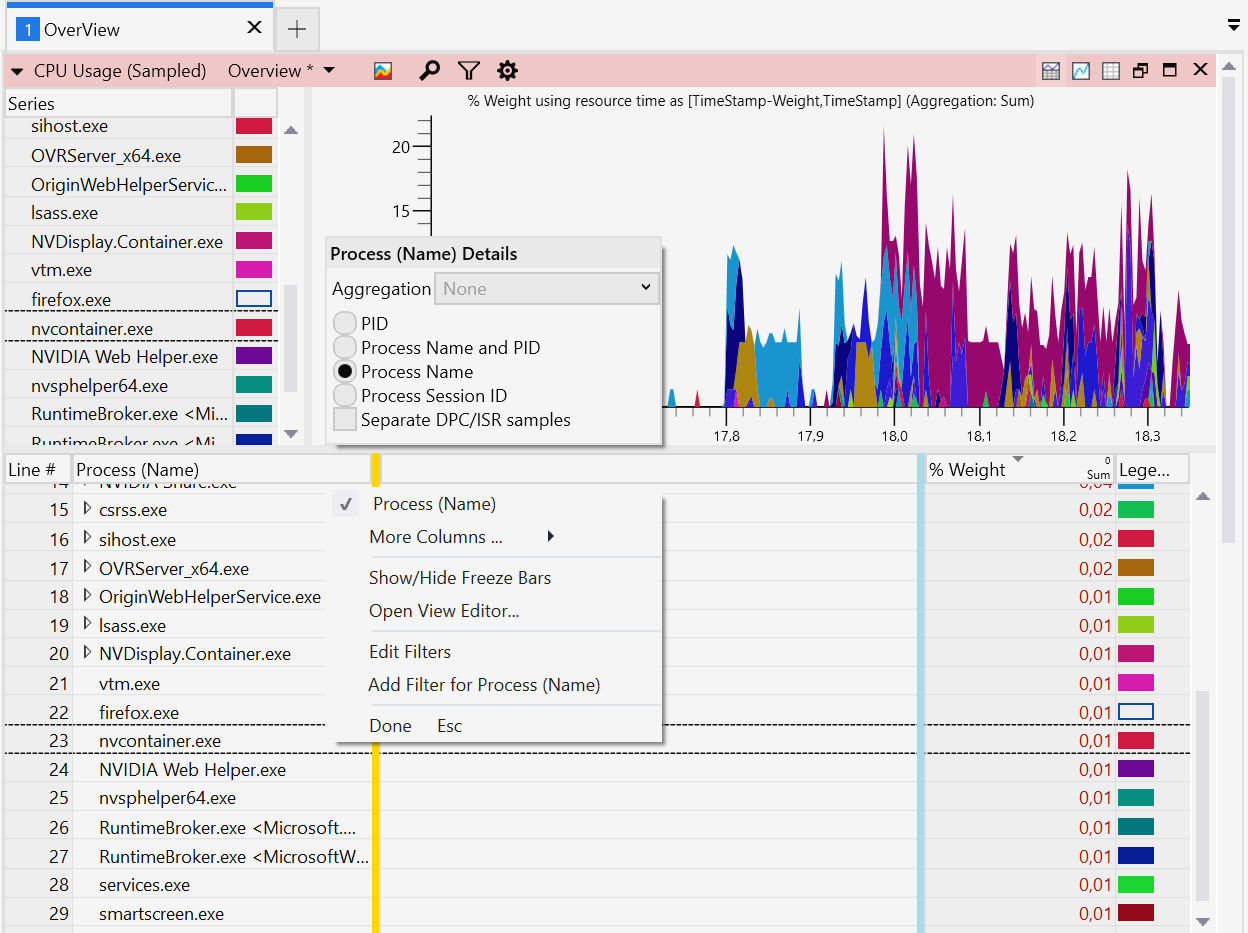
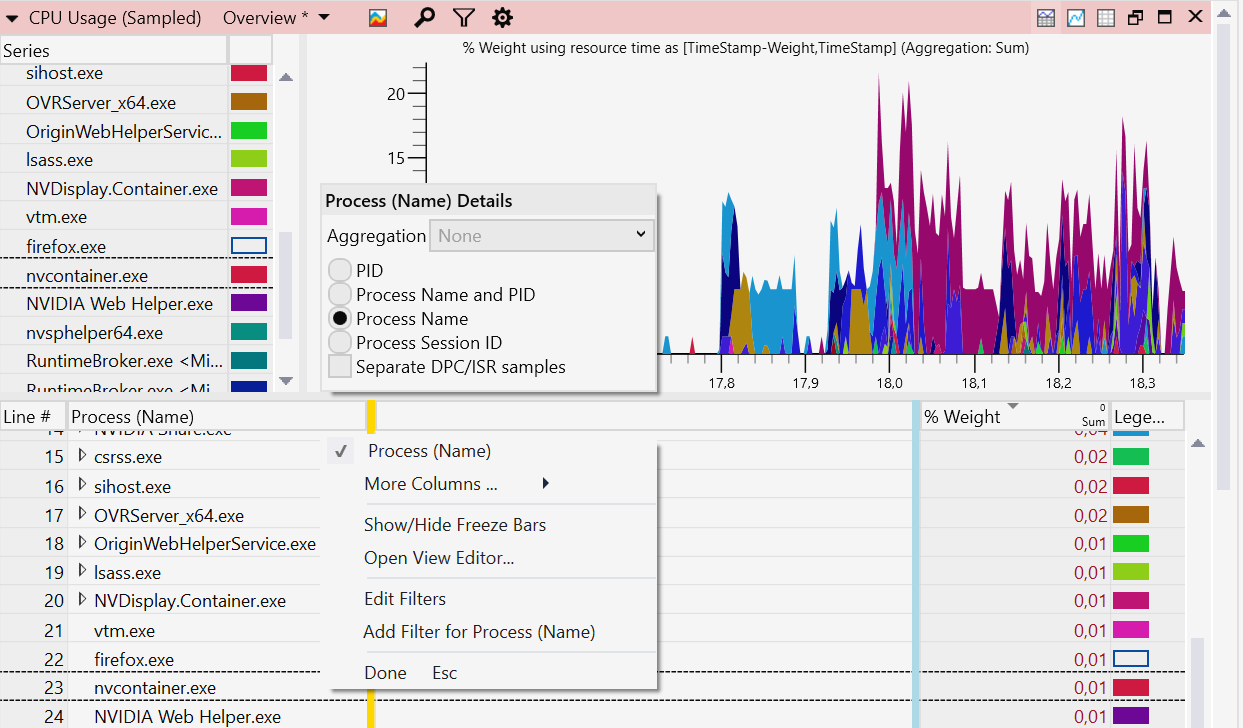
Shortened chapter and removed not necessary screenhots. Now the chapter should be a better fit.

Changed region(s): [[0.0, 0.0, 1.0, 1.0], [0.7337, 0.9066, 0.7643, 0.967]]

diff --git a/chapters/8-Overview-Of-Performance-Analysis-Tools/8-6 Windows ETW.md b/chapters/8-Overview-Of-Performance-Analysis-Tools/8-6 Windows ETW.md
@@ -25,9 +25,8 @@ To enable system wide profiling you must be administrator and have the privilege
 
 Recording ETW data is possible without any extra download since Windows 10 with Wpr.exe. The \underline{W}indows \underline{P}erformance \underline{R}ecorder tool supports a set of built-in recording profiles which are ok for common performance issues. You can tailor your recording needs by authoring a custom performance recorder profile xml file with the `.wprp` extension.
 
-[TODO @Alois]: Why do we need Windows Performance Toolkit? What's inside it?
-[TODO @Alois]: What is the second step of the installation process?
-You can download the Windows Performance Toolkit from the Windows SDK[^1] or ADK[^2] download page. The installation is a two step process. First you download a small installer which will give you the options to download just the parts, in this case the Windows Performance Toolkit, you need. You are allowed to redistribute WPT e.g. as part of your own application.
+If you are running Windows 10 or you want not only record but also view the recorded ETW data you need to install the Windows Performance Toolkit.
+You can download the Windows Performance Toolkit from the Windows SDK[^1] or ADK[^2] download page. The installation is a two step process. First you download a small installer which you start. There you can select in the SDK Installer UI just the parts of the huge Windows SDK you need. In our case we just enable the checkbox of the Windows Performance Toolkit and install it. You are allowed to redistribute WPT e.g. as part of your own application.
 
 ### ETW Recording Tools {.unlisted .unnumbered}
 
@@ -41,7 +40,7 @@ You can download the Windows Performance Toolkit from the Windows SDK[^1] or ADK
   
 ### ETW Viewing/Analysis Tools {.unlisted .unnumbered}
 
-- Windows Performance Analyzer (WPA): the most powerful UI for viewing ETW data. ~~There are not many system wide analysis tools out there. One comparable tool is TraceCompass from the Eclipse foundation.~~ WPA can visualize and overlay Disk, CPU, GPU, Network, Memory, Process and many more data sources to get a holistic understanding how your system behaves and what it was doing. Although the UI is very powerful it may also be quite complex for beginners. ~~You need to know how your application interacts with your language runtime (e.g. .NET Common Language Runtime, C-Runtime, JavaScript, ...), the operating system and other processes which constitute your system. Microsoft has invested also in Linux observability. As a result of this~~ WPA supports plugins to process any data, not just ETW traces. Today you can view Linux/Android[^8] profiling data with WPA generated from tools like Linux perf, LTTNG, Perfetto and the following log file formats: dmesg, Cloud-Init, WaLinuxAgent, AndoidLogcat.
+- Windows Performance Analyzer (WPA): the most powerful UI for viewing ETW data.  WPA can visualize and overlay Disk, CPU, GPU, Network, Memory, Process and many more data sources to get a holistic understanding how your system behaves and what it was doing. Although the UI is very powerful it may also be quite complex for beginners.  WPA supports plugins to process any data, not just ETW traces. Today you can view Linux/Android[^8] profiling data with WPA generated from tools like Linux perf, LTTNG, Perfetto and the following log file formats: dmesg, Cloud-Init, WaLinuxAgent, AndoidLogcat.
 
 - ETWAnalyzer[^5]: reads ETW data and generates aggregate summary Json files which can be queried, filtered and sorted at command line or exported to a CSV file.
 
@@ -67,60 +66,90 @@ Next, we will take a look at the example of using ETWController to capture ETW t
 
 #### Capture traces {.unlisted .unnumbered}
 
-![ETWController UI screenshot.](../../img/perf-tools/ETWController.png){#fig:ETWControllerUI width=80%}
-
 - Start ETWController
 - Select the CSwitch profile to track thread wait times along with the other default recording settings. Keep the check boxes *"Record mouse clicks"* and *"Take cyclic screenshots"* enabled to be later able to navigate to the slow spots with the help of the screen shots. See @fig:ETWControllerUI.
  - Press *"Start Recording"*
  - Download some executable from the internet, unpack it and double click the executable to start it. 
  - After that you can stop profiling by pressing the *"Stop Recording"* button. 
 
+![ETWController UI screenshot.](../../img/perf-tools/ETWController.png){#fig:ETWControllerUI width=80%}
+
 Stopping profiling the first time takes a bit longer because for all managed code synthetic pdbs are generated which is a one time operation. After profiling has reached the Stopped state you can press the *"Open in WPA"* button to load the ETL file into the Windows Performance Analyzer with an ETWController supplied profile. The CSwitch profile generates a large amount of data which is stored in a 4 GB ring buffer which allows you to record 1-2 minutes before the oldest events are overwritten. Sometimes it is a bit of an art to stop profiling at the right time point. If you have sporadic issues you can keep recording enabled for hours and stop it when an event like a log entry in a file shows up, which is checked by a polling script, to stop profiling when the issue has occurred.
+
+![Screenshot captured with ETWController viewed in Browser.](../../img/perf-tools/ETWController_Screenshot.png){#fig:ETWControllerScreenshot width=80% }
 
 Windows supports Event Log and Performance Counter triggers which allow one to start a script when a performance counter reaches a threshold value or a specific event is written to an event log. If you need more sophisticated stop triggers you should take a look at PerfView which allows one to define a Performance Counter threshold which must be reached and stay there for x seconds before profiling is stopped. This way random spikes are no longer triggering false positives. 
 
 #### Analysis in WPA {.unlisted .unnumbered}
 
-[TODO:] Current section is already 6+ pages, above the initially planned budget.
-The case study with Windows defender blocking a start of a process seems good.
-I would rather just show a single image that shows the issue being analyzed since each screenshot takes almost an entire A4 page, or we can glue parts of two screenshots to make it more compact. What I would like to see on the screenshot:
-1. show explorer is blocked
-2. show MsMpEng.exe is active
-3. show screenshot event on the timeline
-4. explain the scheduler transitions
-Please explain as simple as possible, otherwise it will be a hard time for someone who is new to ETW. Good idea is to put markers on the image (like 1,2,3) and then refer to these markers from the text.
-Right now, there is a lot of data on the screenshots and it's hard to tell if everything is relevant or not.
-The goal of this chapter is to introduce the MAIN usage of ETW traces (e.g. observe SW dynamics), then briefly describe other things it can do.
-
-After stopping the recording, open the recorded trace in WPA. The screenshot of WPA trace for our case study is shown on figure @fig:DefenderOverhead.
-
 ![WPA overview of the trace showing a process start blocked by defender activity.](../../img/perf-tools/WPA_SlowProcessStart_DefenderOverhead.png){#fig:DefenderOverhead width=100% }
 
 WPA supports custom profiles to configure the graph and table data for visualizing CPU, disk, files, etc. in the way you like best. Originally it was developed for device driver developers which is reflected by the built-in profiles which do not focus on application development. ETWController brings its own profile (*Overview.wpaprofile*) which you can set as default profile under *Profiles - Save Startup Profile* to always use the performance overview profile.
 
-On the screenshot, the view is divided into two parts: *CPU Usage (Sampled)* and *CPU Usage (Precise)*, let's understand the difference. The upper half shows sampled graph which is useful to see where CPU is spent, similar to hotspots view in other profiling tools. The lower half shows precise graph, which takes into account time intervals during a process was not running (wall time). Such data is generated by the Windows Thread Scheduler handling context switch events which provides data, e.g. how long and on which CPU a thread was running (CPU Usage), how long it was blocked in a kernel call (Wait), in which priority and how long the thread had been waiting for a CPU to become free (Ready Time), etc.
+On the screenshot @fig:DefenderOverhead, the view is divided into two parts: *CPU Usage (Sampled)* and *CPU Usage (Precise)*, let's understand the difference. The upper half shows sampled graph which is useful to see where CPU is spent, similar to hotspots view in other profiling tools. The lower half shows precise graph, which takes into account time intervals during a process was not running (wall time). Such data is generated by the Windows Thread Scheduler handling context switch events which provides data, e.g. how long and on which CPU a thread was running (CPU Usage), how long it was blocked in a kernel call (Wait), in which priority and how long the thread had been waiting for a CPU to become free (Ready Time), etc.
 
 The methods in the *CPU Usage (Precise)* graph with highest CPU are most likely not the actual CPU consumers. A Context switch event is (simplified!) generated when a thread hits a blocking OS call like `WaitForSingleObject` or `WaitForMultipleObjects`. If a thread is e.g. in a busy for loop spinning billions of iterations but later taking a lock all CPU will be attributed to the lock call which calls into a blocking OS call. Only the blocking operation generates a Context Switch event and not high CPU. Although the CPU consumption of a thread is measured exactly it will not help you to locate busy CPU consumers. To find CPU bottlenecks you need to look into CPU sampling data. If you want to know why your thread was not running then you need Context Switch traces. What most users expect would be a combined view which show wait times and CPU hotspots in one tool, but this is so far not supported in WPA. ETWAnalyzer merges the data, but it is a console only application with no UI.
 
-[TODO:] highlight EventNumber 63 on the screenshot.
-
 We can examine the screenshots taken by ETWController to find where slowness was observed. An example is shown in figure @fig:ETWControllerScreenshot. When the profiling data is saved (the file named xx.etl) another folder named *xx.etl.Screenshots* is created. This contains all screenshots and a *Report.html* file which you can view in the browser. Every recorded keyboard/mouse interaction gets a screenshot of the form Screenshot_EventNumber e.g. Screenhot_63.jpg. This is the screenshot file of the double click event where the process start was delayed. The mouse pointer position is marked as a green square, except if a click event did occur, then it is red. This makes it easy to spot when and where a mouse click was performed.
-
-[TODO:] Cut the image fig:ETWControllerScreenshot.
-
-![Screenshot captured with ETWController viewed in Browser.](../../img/perf-tools/ETWController_Screenshot.png){#fig:ETWControllerScreenshot width=80% }
 
 The slow click event number 63 we can locate in the profiling data in the WPA Overview view. Then you can zoom in to the interesting time region of a potentially longer recording. The event number is part of the *Generic Events HookTracer Events(Slow, Mouse, Keyboard)* WPA view which visualizes all keyboard, mouse and timer based screenshots. 
 
-[TODO @Alois]: the text below doesn't correlate with the image.
 
-See figure @fig:WpaSlowProcessStartOverview. When you double click in explorer to start an executable you would first check if a delay in explorer.exe is happening. Since we are dealing with delays it makes sense to look at the *CPU Usage (Precise) Waits* Graph. There you will find after the first column after process *New Thread Stack (Stack Tag)* which shows the summary of all threads and what they were doing. If we look deeper we find *Antivirus - Windows Defender* with a delay of 1.068s which can be visualized as bar chart to nicely display correlations across processes.
+See figure @fig:DefenderOverhead. When you double click in explorer to start an executable you would first check if a delay in explorer.exe is happening. Since we are dealing with delays it makes sense to look at the *CPU Usage (Precise) Waits* Graph. There you will find after the first column after process *New Thread Stack (Stack Tag)* which shows the summary of all threads and what they were doing. If we look deeper we find *Antivirus - Windows Defender* with a delay of 1.068s which can be visualized as bar chart to nicely display correlations across processes.
 
-![WPA slow process start overview.](../../img/perf-tools/WPA_SlowProcessStartOverview.png){#fig:WpaSlowProcessStartOverview width=100% }
+You might be familiar with stack traces, but not necessarily stack tags. When you read a call stack you try to understand what an application was doing and mentally map the call stack to the applications intent. Lets suppose a deep stack trace which consumes a lot of CPU 
 
-You might be familiar with stack traces, but not necessarily stack tags. When you read a call stack you try to understand what an application was doing and mentally map the call stack to the applications intent. That is exactly what stack tags are for without the need to unfold the call stack to find deep inside the one key frame that is telling you what the application was doing. See[^9] for a more detailed explanation how you can define your own stacktag definitions. The stacktags from the ETWController profile originate from ETWAnalyzer[^10] which is the result of hundreds of performance issues investigated over a decade in Windows, .NET, .NET Core, GPU and Antivirus device drivers. 
+----------------------------------------------------------------------------------------------------
+Stack Tag                   Stack                                           CPU ms             Wait ms
+---------                   ----------------------------------------        ---------------    ----------
+Windows Defender            YourApp.exe!main()                              5000               10000
 
-[TODO @Alois]: I think it's still unclear what a "stacktag" is. Is it just a Microsoft internal way of marking common call stacks? Do stacktags show a process call stack grouped by category (Waits, COM, etc.)? I think we either should explain it in a simple way or just avoid it altogether. :)
+                            YourApp.exe!logic1()                            3000               5000  
+
+                             YourApp.exe!logic2()                            2000               3000
+
+                             YourApp.exe!logic3()                            2000               3000
+
+                             YourApp.exe!logic4()                            2000               3000
+
+                              YourApp.exe!logic5()                            1000               2500
+
+                                YourApp.exe!logic6()                            500                2300
+
+                                YourApp.exe!readfile()                          500                2300
+
+                                  KernelBase.dll!CreateFileInternal               396              2200
+
+                                  apphelp.dll!InsHook_NtCreateFile                396              2200
+
+                                  ntdll.dll!NtCreateFile                          396              2200
+
+                                  ...                                             396              2200
+
+                                  FLTMGR.SYS!FltpCreate                           396              2200
+
+                                  FLTMGR.SYS!FltpPassThroughInternal              396              2200
+
+                                  FLTMGR.SYS!FltpPerformPreCallbacksWorker        396              2200
+
+                                  WdFilter.sys!<PDB not found>                    396              2200
+
+                                  ...                                             ...               ...
+
+----------------------------------------------------------------------------------------------------
+Table: Stacktag Example. {#tbl:stacktag_example}
+
+At a high level you know that logic1 is running which many layers below tries to read from a file where the file open operation (CreateFile) is delayed for 2500ms. If only user mode stacks are present you must assume that the file system was just slow. But with ETW see also what the kernel is doing. In this case CreateFile is intercepted by Windows Defender (WdFilter.sys = Windows Defender Filter Driver) for which Microsoft does not deliver symbol information. We know that our call was delayed by Antivirus. To check where else the Antivirus Scanner is interfering with your application you need to unfold all stacks where WdFilter.sys is poping up, which is a time consuming operation. One would like to group the stacks which are interecepted by Defender into an extra bucket. That is what stack tags are meant for: To give a key method of a stack trace a descriptive name. Stacktags are method and module pattern expressions in an external XML file (in WPA: Trace -Trace Properties-Stack Tags Definitions) which are defined like this:
+```
+  <Tag Name="Windows Defender" Priority="1">
+    <Entrypoint Module="WdFilter.sys" Method="*"/>
+    <Entrypoint Module="mssecflt.sys" Method="*"/>
+  </Tag>
+```
+Stack tag matching works from bottom to top where the first matching stack tag definition wins. That behavior has the nice property that you can sum up all stacktags to get the total CPU/Wait overhead for this stacktag. Since ETW stack traces combine user and kernel stacks it is easy to estimate AV overhead by defining a stacktag for all AV device drivers which are showing up in your application stack traces in CPU Sampling and Context Switch traces because the AV drivers are intercepting your user mode calls. 
+
+The Defender stacktag matches two Defender device drivers which intercept (mainly) CreateProcess and File related operations. If e.g. the CreateFile call is delayed by one of these drivers we can directly see how much Wait and CPU by this driver was introduced by looking at the aggregated stack tag metrics. If the tag is absent we know that no Defender was running at that point in time. 
+See[^9] for a more detailed explanation how you can define your own stacktag definitions. The stacktags from the ETWController profile originate from ETWAnalyzer[^10] which is the result of hundreds of performance issues investigated over a decade in Windows, .NET, .NET Core, GPU and Antivirus device drivers. 
 
 [^1]: Windows SDK Downloads [https://developer.microsoft.com/en-us/windows/downloads/sdk-archive/](https://developer.microsoft.com/en-us/windows/downloads/sdk-archive/)
 [^2]: Windows ADK Downloads [https://learn.microsoft.com/en-us/windows-hardware/get-started/adk-install#other-adk-downloads](https://learn.microsoft.com/en-us/windows-hardware/get-started/adk-install#other-adk-downloads)
@@ -132,101 +161,3 @@ You might be familiar with stack traces, but not necessarily stack tags. When yo
 [^8]: Microsoft Performance Tools Linux / Android [https://github.com/microsoft/Microsoft-Performance-Tools-Linux-Android](https://github.com/microsoft/Microsoft-Performance-Tools-Linux-Android)
 [^9]: Stacktags [https://learn.microsoft.com/en-us/windows-hardware/test/wpt/stack-tags](https://learn.microsoft.com/en-us/windows-hardware/test/wpt/stack-tags)
 [^10]: ETWAnalyzer Stacktags [https://github.com/Siemens-Healthineers/ETWAnalyzer/blob/main/ETWAnalyzer/Configuration/default.stacktags](https://github.com/Siemens-Healthineers/ETWAnalyzer/blob/main/ETWAnalyzer/Configuration/default.stacktags)
-
-## TO REMOVE {.unlisted .unnumbered}
-
-#### Debug symbols {.unlisted .unnumbered}
-
-All stacktag definitions which refer to a method need symbols, otherwise the stack trace to stack tag mapping will not work and you will only see stack tags which refer to modules but not specific methods. To load symbols you need to add the Microsoft symbol server and potentially your own symbol server in the *Trace - Configure Symbol Paths* dialog. See @fig:WpaSymbolLoadDialog. After that you can start loading symbols by checking the *Trace - Load Symbols* menu entry. WPA has a reputation of being slow because most users leave the remote symbol servers enabled after having downloaded the matching symbols once. 
-
-*Pro Tip: The next time you open a new or the same ETL file be sure to uncheck all remote symbol servers, before starting to load symbols. Symbol loading will then need < 1 minute without the large delay (up to 1h) to check all remote servers again for the same symbols even when no new symbols are downloaded.*
-
-![WPA Symbol configuration.](../../img/perf-tools/WPA_SymbolLoad.png){#fig:WpaSymbolLoadDialog width=70%}
-
-WPA is also useful without symbols by looking at correlations between CPU activity where in the beginning explorer was processing the double click event and suddenly Windows Defender needs 637 ms CPU followed by some idle time where no process was active and then suddenly our double clicked process (ETWAnalyer) was started ca. 1s after the double click event. Correlation is not causation, but with Context Switch Tracing you can prove that explorer was waiting on Windows Defender which is not possible by looking at CPU sampling data. 
-
-Figure @fig:WpaSlowProcessStartOverview shows that even without stack traces you can find interesting patterns by looking at CPU consumption of the explorer, Defender and when the double clicked executable is started. 
-
-[Todo]: Move to -> Apendix ?
-
-Unfortunately wpr.exe is not working reliably on all Windows 10 versions and has not been patched during the lifetime of Windows 10 (including 22H2). The official answer from MS is that any tool which can be publicly downloaded (in this case from the ADK) no servicing via Windows Update is done. 
-If you find the following error while stopping ETW recording
-```
-C>wpr -start cpu -start dotnet  
-C>wpr -stop c:\temp\test.etl 
-        Cannot change thread mode after it is set.
-        Profile Id: RunningProfile
-        Error code: 0x80010106
-```
-
-you need to install the Windows Performance Toolkit (WPT) which is part of the Windows SDK and also of the Windows Assessment and Deployment Kit (Windows ADK). Below is a table of the known to be working WPR versions from the Windows SDKs:
-
---------------------------------------------------------------------------
-Windows Version        Description              Recommended WPT Version
-------                 ---------------------    ---------------------------------------
-Windows 11                                            
-10.0.22000.194         Latest                   Windows SDK for Windows 11 (10.0.22621.755) or later
-
-Windows 10 Consumer                                      
->=  10.0.17763         1809 - 22H2              "
-
-Windows Server 2022                                 
-10.0.20348.1194        Windows 10 based 21H2    "
-
-Windows Server 2019                                   
-10.0.17763             Windows 10 based 1809    "
-
-Windows 10 LTSC                                         
-10.0.17763             Windows 10 based 1809    "
-
-Windows Server 2016                                   
-10.0.14393.5427        Windows 10 based 1607    Windows 10 SDK version 2104 (10.0.20348.0)
-
---------------------------------------------------------------------------
-
-Table: Recommended Windows Performance Toolkit (WPT) for all major Windows versions. {#tbl:wpt_versions}
-
-<Removed>
-
-### WPA overview {.unlisted .unnumbered}
-
-Figure @fig:WPAOverview shows e.g. how a test application (FileWriter.exe) that writes many small files is blocked by the parallel activity of Windows Defender (MsMpEng.exe). There are two CPU graphs which look similar, but show different data. The first graph shows *CPU Usage (Sampled)* which is useful to see where CPU is spent. The latter graph *CPU Usage (Precise)* is generated by visualizing data of the Windows Thread Scheduler (Context Switch Events) which contain a lot of data like how long on which CPU a thread was running (CPU Usage), how long it was blocked in a kernel call (Wait), in which priority and how long the thread had been waiting for a CPU to become free (Ready Time) just to name the most important ones. While the stack traces of both graphs look similar you need to understand what you are looking at. 
-
-![WPA Overview.](../../img/perf-tools/Wpa_Overview.png){#fig:WPAOverview width=100%}
-
-<Removed>
-
-#### WPA Tables {.unlisted .unnumbered}
-
-It is important to understand what data you are looking at in the tables. You certainly have noticed the yellow and blue vertical line in every WPA table. All columns right of the blue vertical line are used as input to graph data. Data left of the yellow line are groupings by the corresponding column values. Data between the yellow and blue line is the data of individual ETW events as table which you get when you unfold all groupings or you remove all grouped data columns.
-
-To create custom views from CPU Sampling data you can drag and drop the columns around to create new visualizations of the data. The following visualizations
-
-- CPU by executable name (no process id)
-- CPU per process instance (process with pid) process and thread
-- CPU by process instance (process with pid), thread, stack by thread.
-
-need these WPA groupings which you can configure via the View Editor (Ctrl+E or by pressing the wheel button):
-
------------------------------------------------------------------------------
-Column 1                 Column 2      Column 3         Column 4      Column 5    Column 6
---------                 ----------    -----------      ----------    ---------   -------- 
-Process                  Yellow Bar    Blue Bar         % Weight        -         -        
-
-Process (Name and pid)   Thread Id     Yellow Bar       Blue Bar      % Weight    -             
-
-Process (Name and pid)   Thread Id     Stack            Yellow Bar    Blue Bar    % Weight        
-
------------------------------------------------------------------------------
-
-Table: WPA Groupings  {#tbl:wpa_groupings}
-
-![WPA grouping to show CPU per process executable.](../../img/perf-tools/WPA_Grouping.png){#fig:WPA_Grouping width=100% }
-
-To switch between Process, Process Name with PID and Process PID you need to right click on the *"Process (Name)"* column. See figure @fig:WPA_Grouping.
-
-#### WPA disk and exception correlation {.unlisted .unnumbered}
-
-![WPA disk and exception correlation.](../../img/perf-tools/WPA_SlowProcessStart_Disk_Exception.png){#fig:ProcessStartDiskException width=100% }
-
-The OverView profile allows you to quickly check if an issue correlates with a CPU, disk, memory, .NET exception, or something else. From the *"Disk Usage Utilization by Disk, Priority"* table in figure @fig:ProcessStartDiskException we find that the disk was 29 ms active. If disk IO is near zero then it cannot be related to our > 1000 ms observed delay of a process start.
